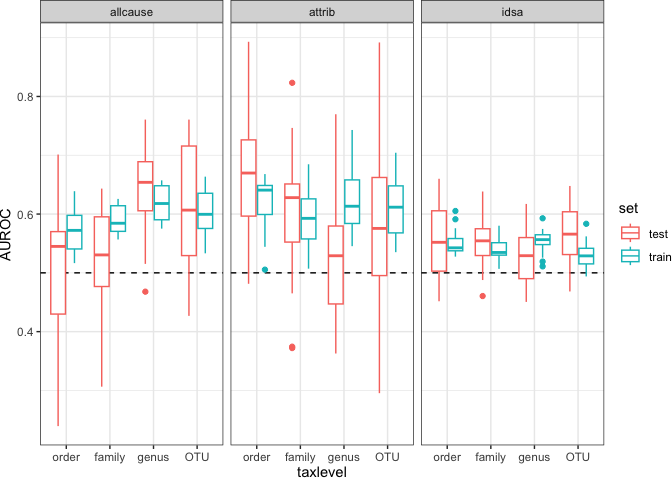
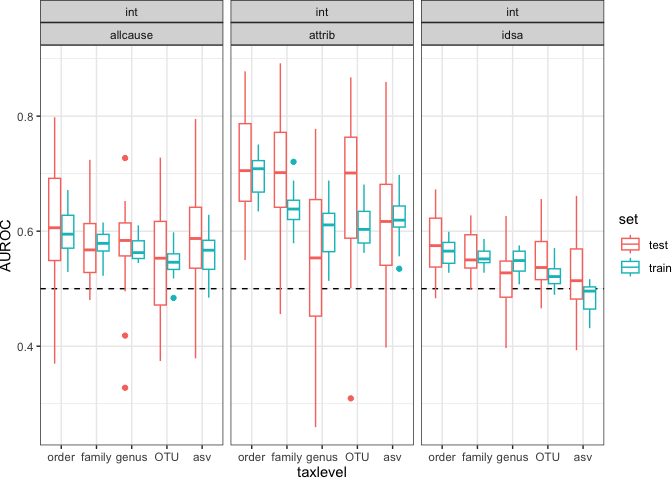
Plot ASVs too

diff --git a/workflow/notebooks/tax-search.md b/workflow/notebooks/tax-search.md
@@ -1,6 +1,6 @@
 Taxonomic level search
 ================
-2023-03-06
+2023-03-17
 
 ``` r
 library(data.table)
@@ -19,7 +19,7 @@ results_dat <- data.table::fread(here('results',
          test = AUC,
          AUPRC = prAUC) %>% 
   pivot_longer(c(train, test), names_to = 'set', values_to = 'AUROC') %>% 
-  mutate(taxlevel = factor(taxlevel, levels = c("order", "family", "genus", "OTU")))
+  mutate(taxlevel = factor(taxlevel, levels = c("order", "family", "genus", "OTU", 'asv')))
 ```
 
 ## config
@@ -29,7 +29,7 @@ read_yaml(here('config', 'tax-search.yml'))
 ```
 
     ## $ml_methods
-    ## [1] "glmnet"
+    ## [1] "rf"
     ## 
     ## $kfold
     ## [1] 5
@@ -44,7 +44,7 @@ read_yaml(here('config', 'tax-search.yml'))
     ## [1] "idsa"     "allcause" "attrib"  
     ## 
     ## $tax_levels
-    ## [1] "OTU"    "genus"  "family" "order" 
+    ## [1] "asv"    "OTU"    "genus"  "family" "order" 
     ## 
     ## $metrics
     ## [1] "AUC"
@@ -62,7 +62,7 @@ results_dat %>%
   ggplot(aes(x = taxlevel, y = AUROC, color = set)) +
   geom_hline(yintercept = 0.5, linetype = 'dashed') +
   geom_boxplot() +
-  facet_wrap(~outcome, nrow = 1) +
+  facet_wrap(dataset~outcome)+#, nrow = 1) +
   theme_sovacool()
 ```
 
